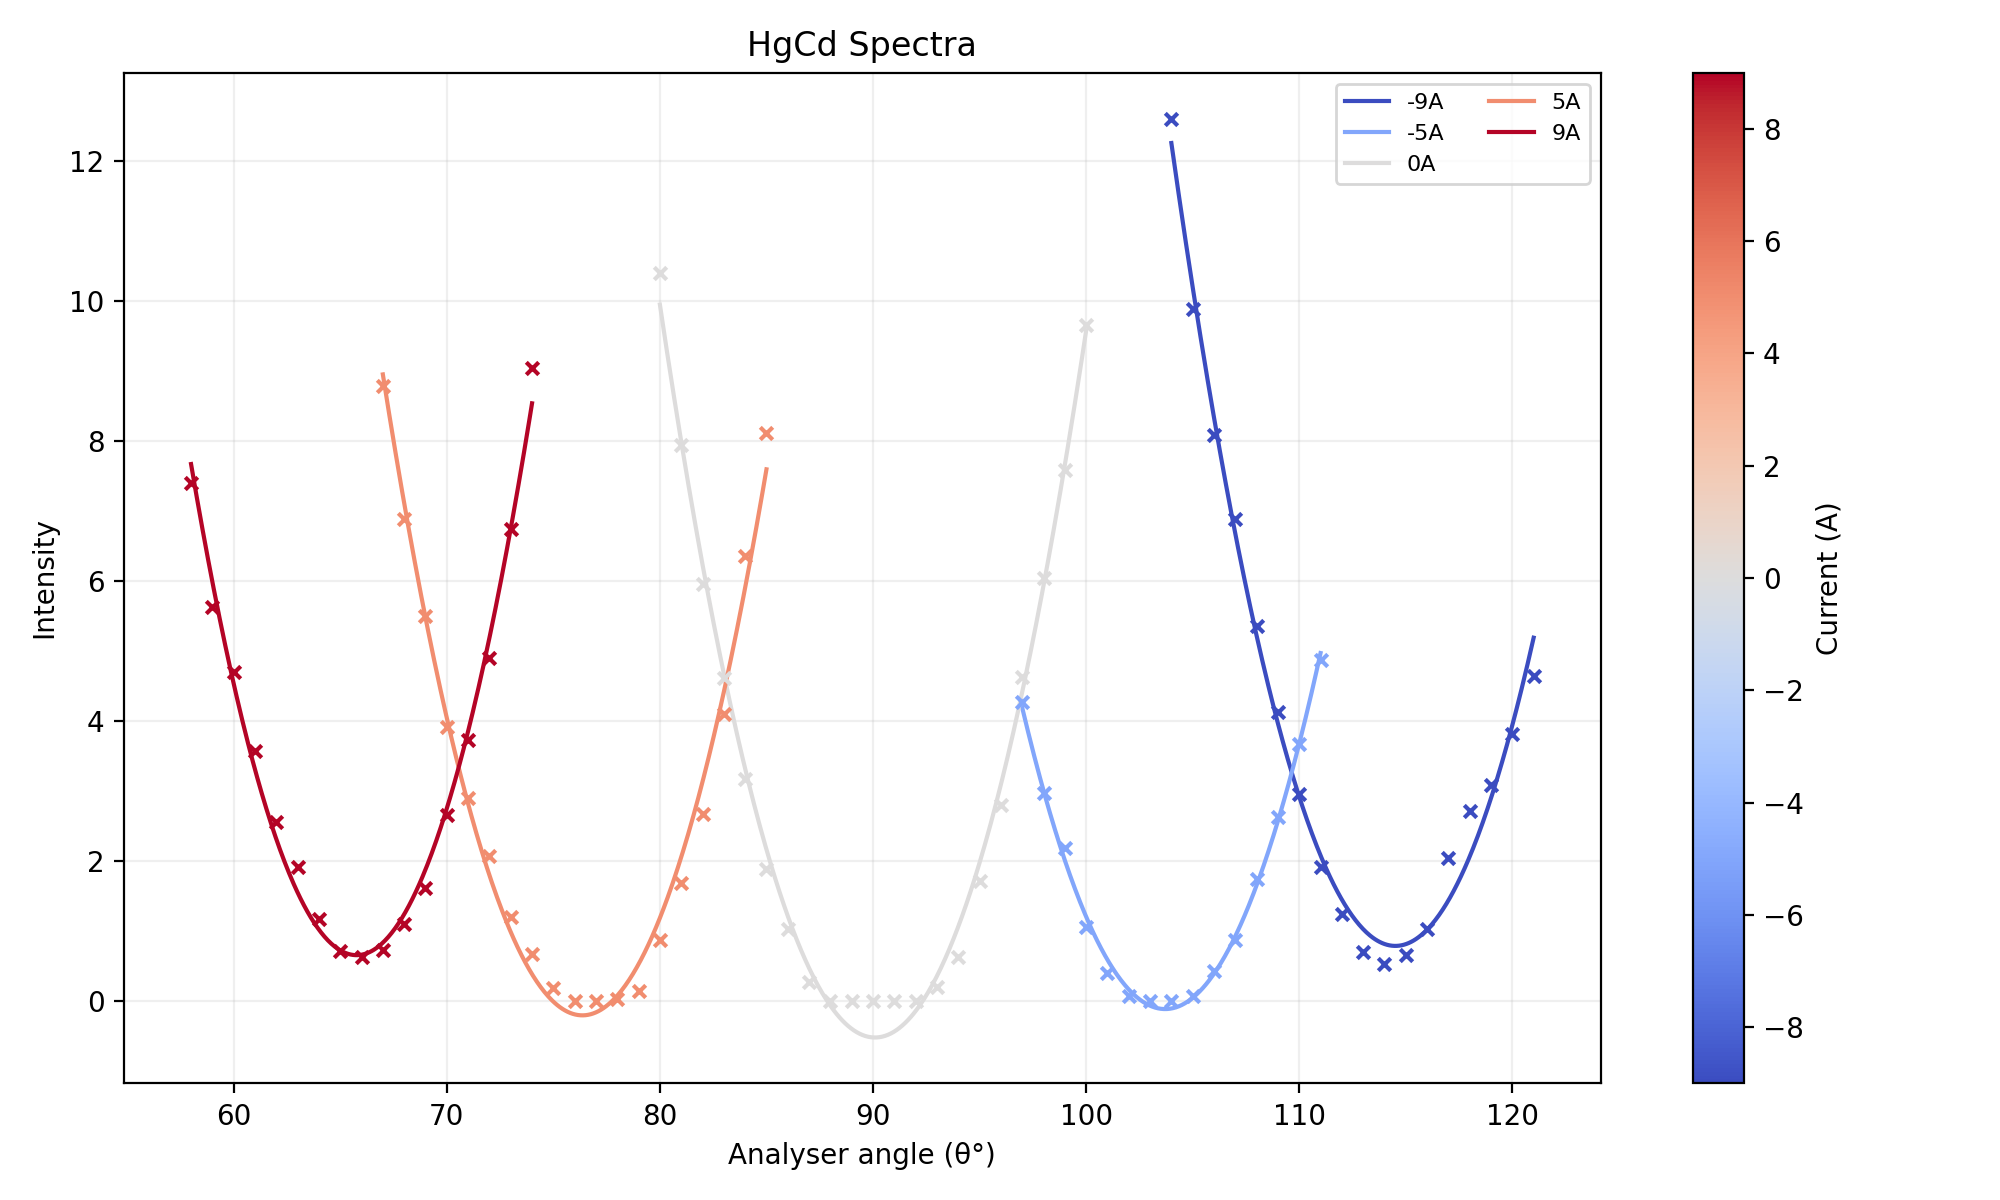
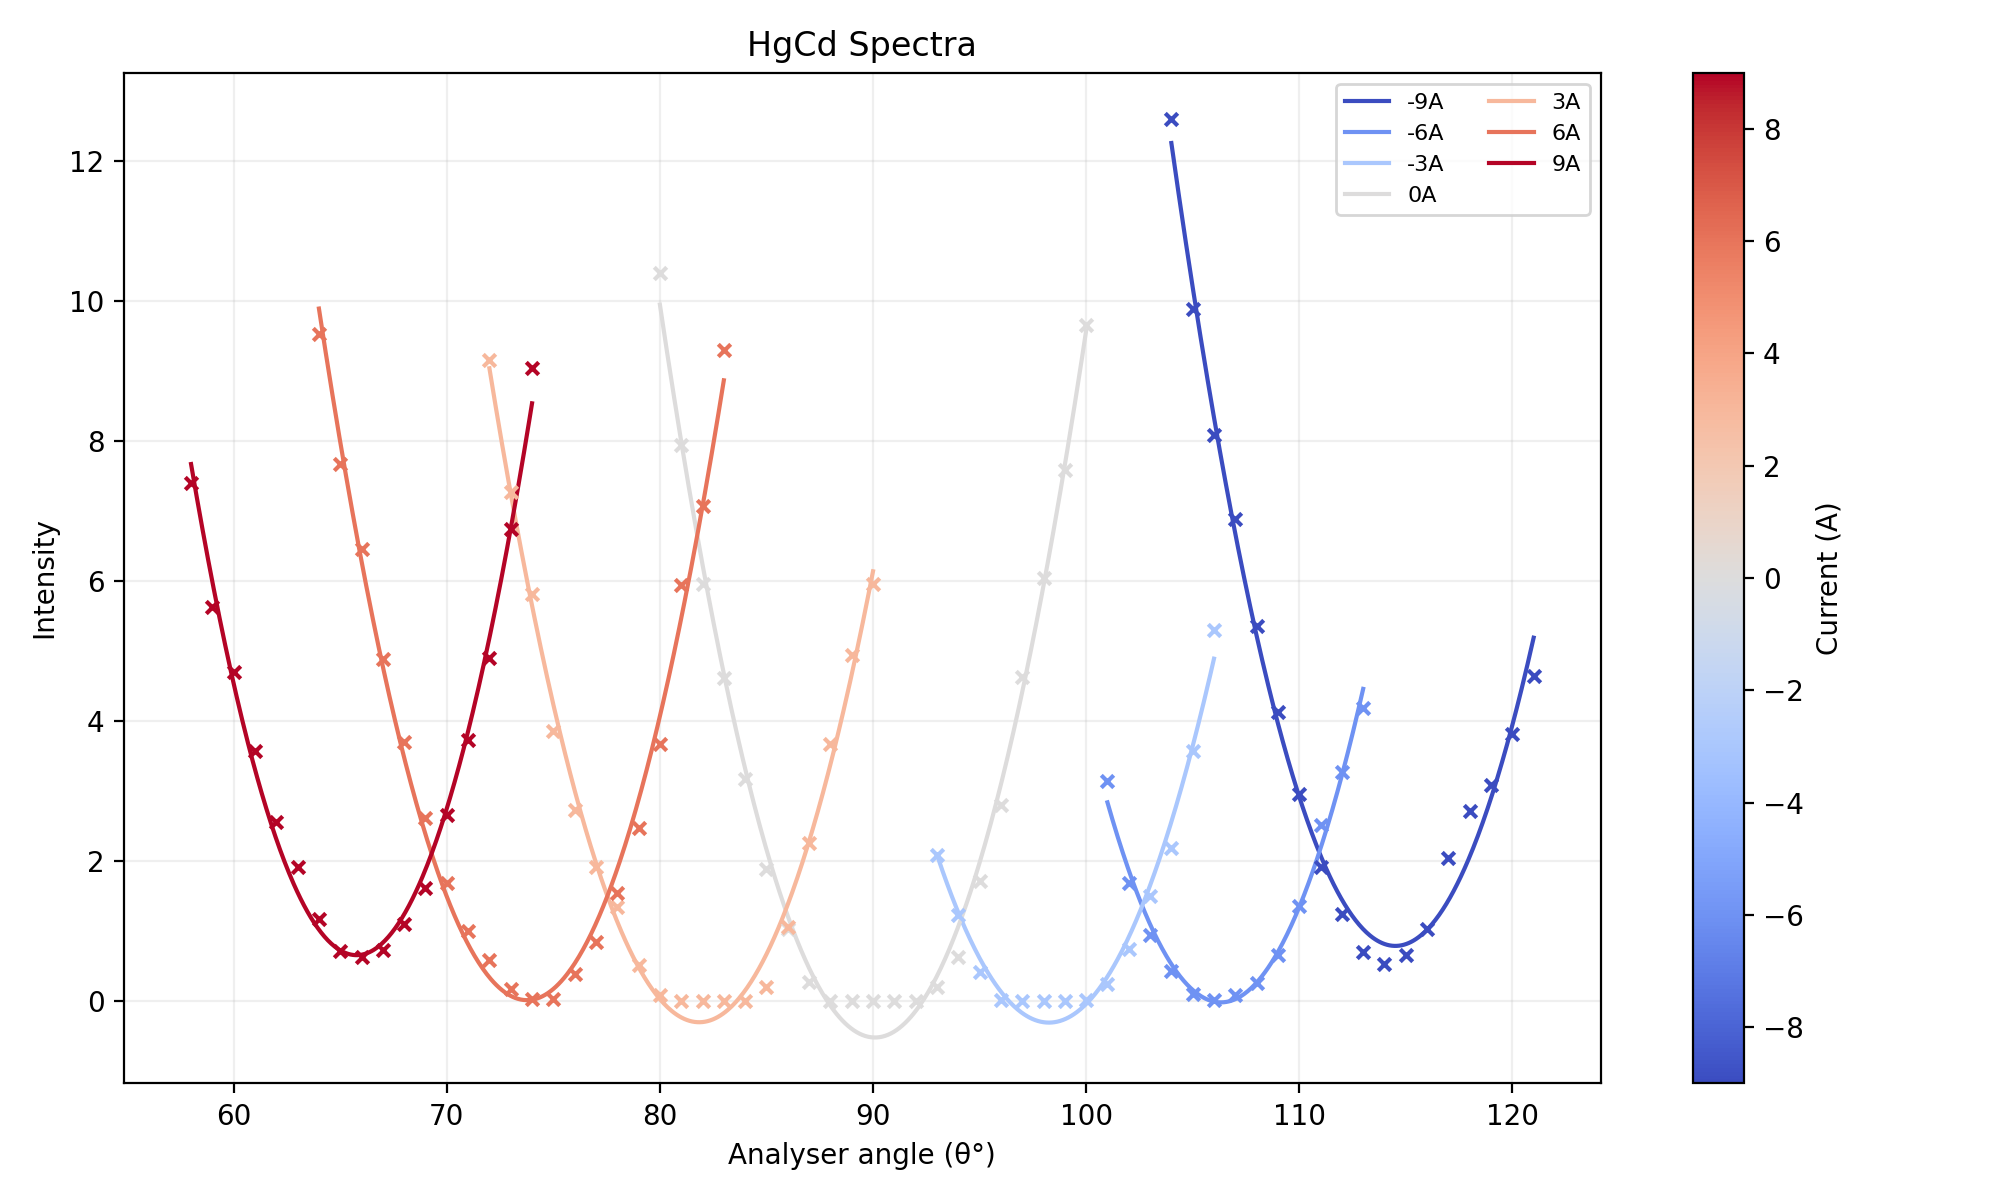
plotting more current settings

diff --git a/config.py b/config.py
@@ -18,6 +18,6 @@ ALPHA = 0.26 / 2
 sigma_ALPHA = 0.005
 
 SPECTRA_TO_PLOT = {
-    'Na':   [-9, -5, 0, 5, 9],
-    'HgCd': [-9, -5, 0, 5, 9],
+    'Na':   [-9, -6, -3, 0, 3, 6, 9],
+    'HgCd': [-9, -6, -3, 0, 3, 6, 9],
 }
